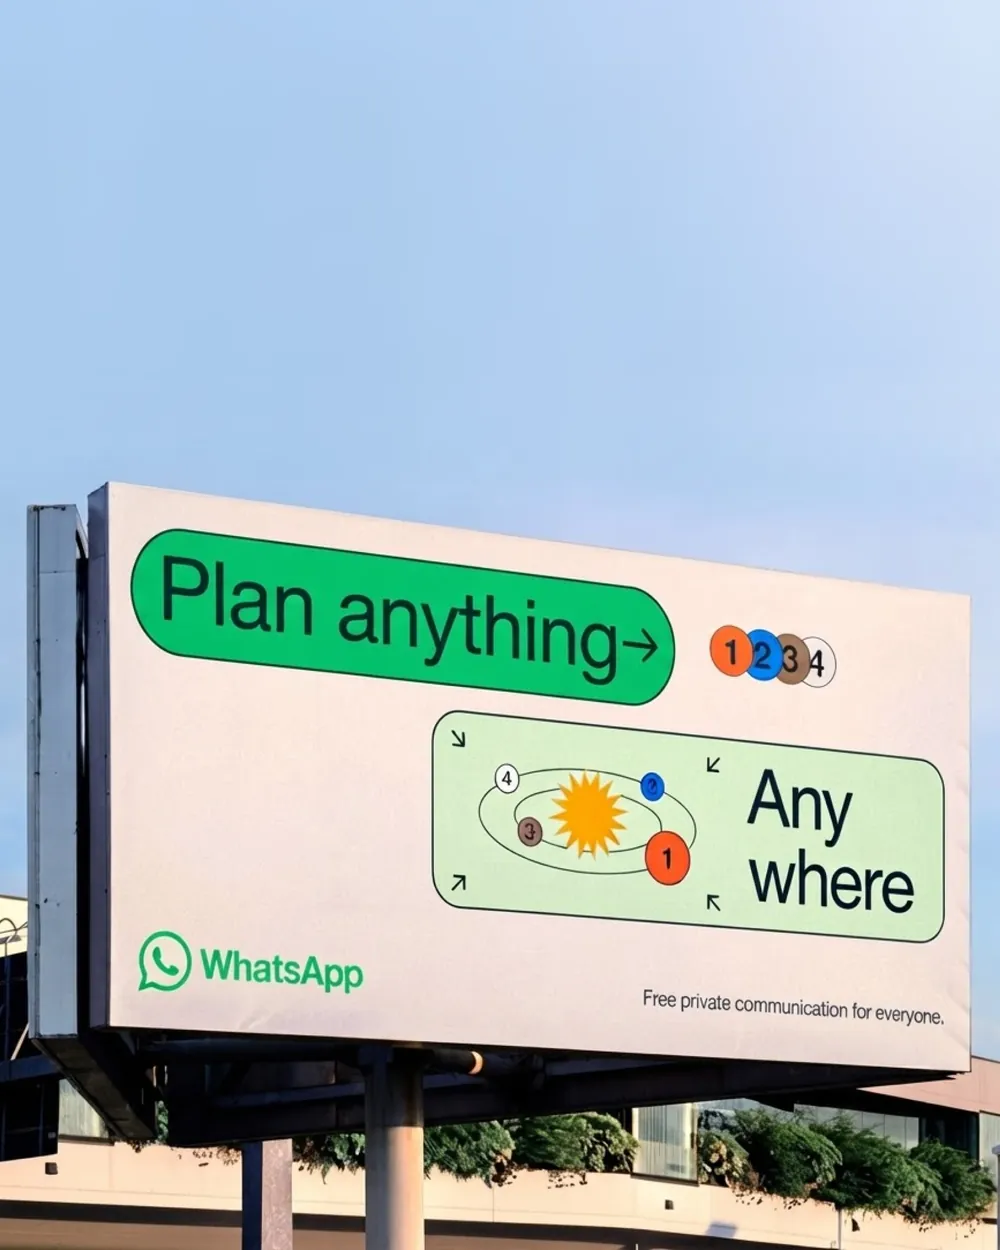
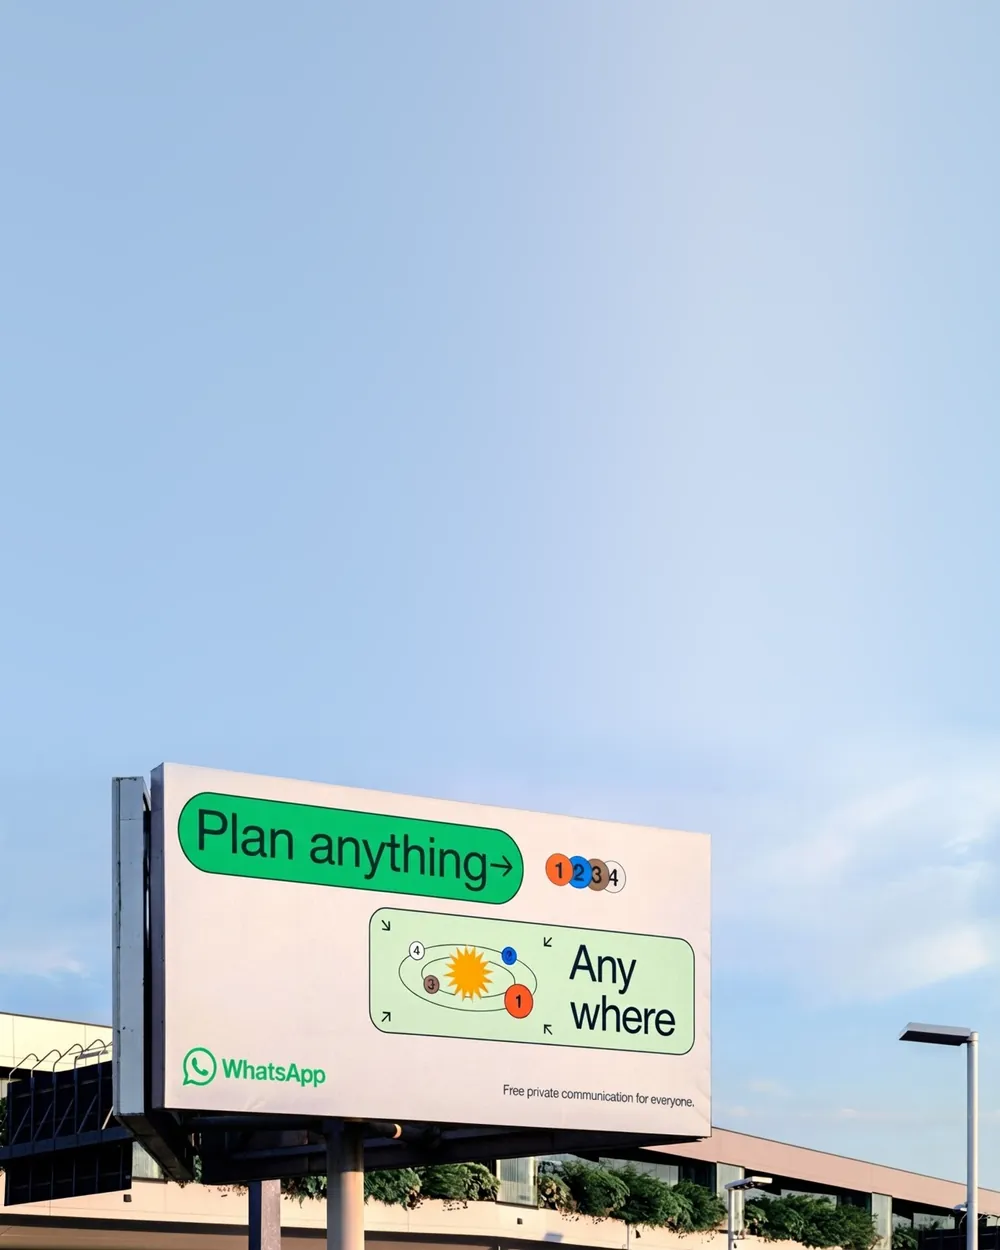
Zoom the WhatsApp card out to the full billboard photo
Claude-Session: https://claude.ai/code/session_01AvnUR49idnwpPkZxR3Z1pN

diff --git a/index.html b/index.html
@@ -858,7 +858,7 @@ body.chat-view #thread{display:none}
 .mk-merc .row span+span{width:40%;margin-top:2.4em;background:#EEF2EF}
 .mk-merc .pay{margin-top:2em;background:#1B1D2A;color:#fff;border-radius:99em;text-align:center;padding:.6em 0;font-size:5.5em;font-weight:500;letter-spacing:-.02em}
 .mk-wa{background:#BFD3EE}
-.mk-wa img{display:block;width:100%;height:100%;object-fit:cover}
+.mk-wa img{display:block;width:100%;height:100%;object-fit:cover;object-position:50% 100%}
 
 @media (max-width:760px){
   .home-mark{left:18px;top:calc(14px + env(safe-area-inset-top,0px))}
